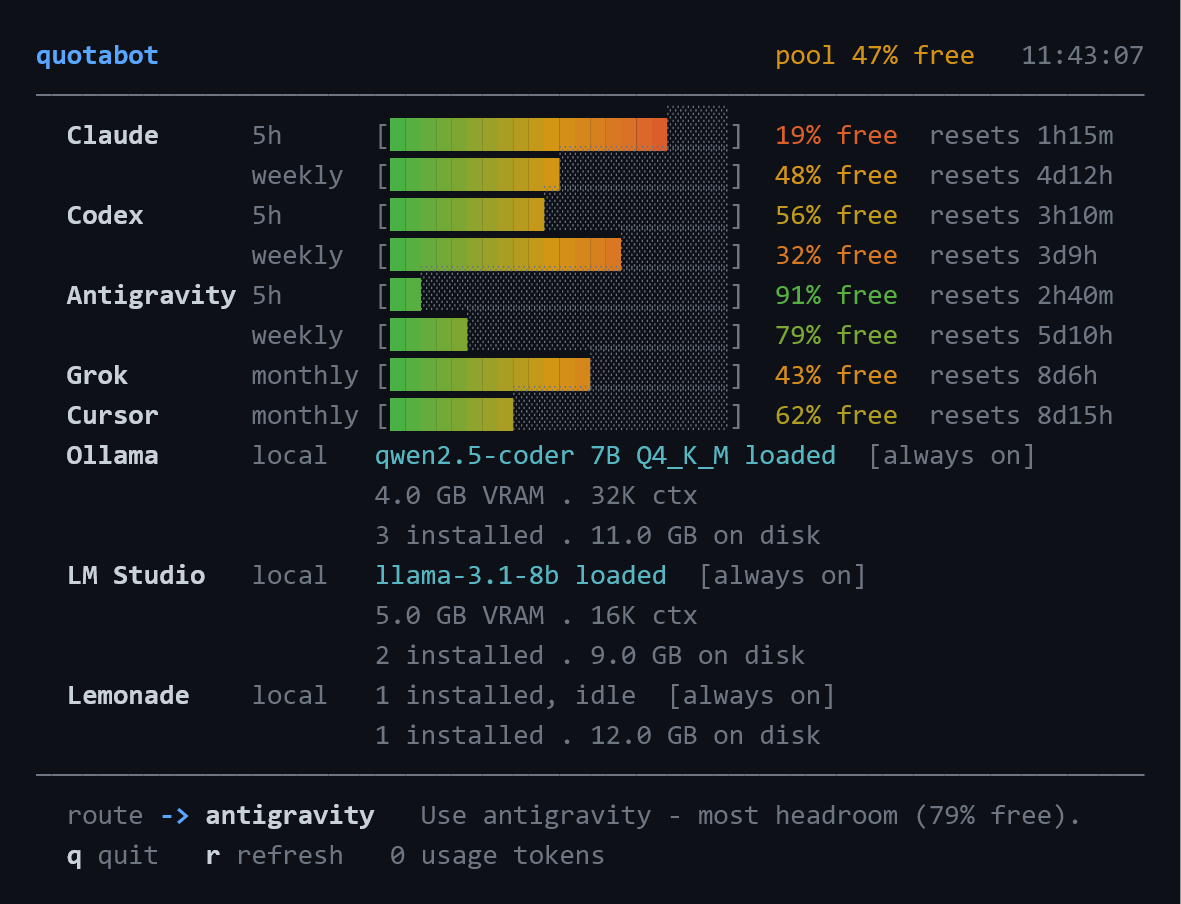
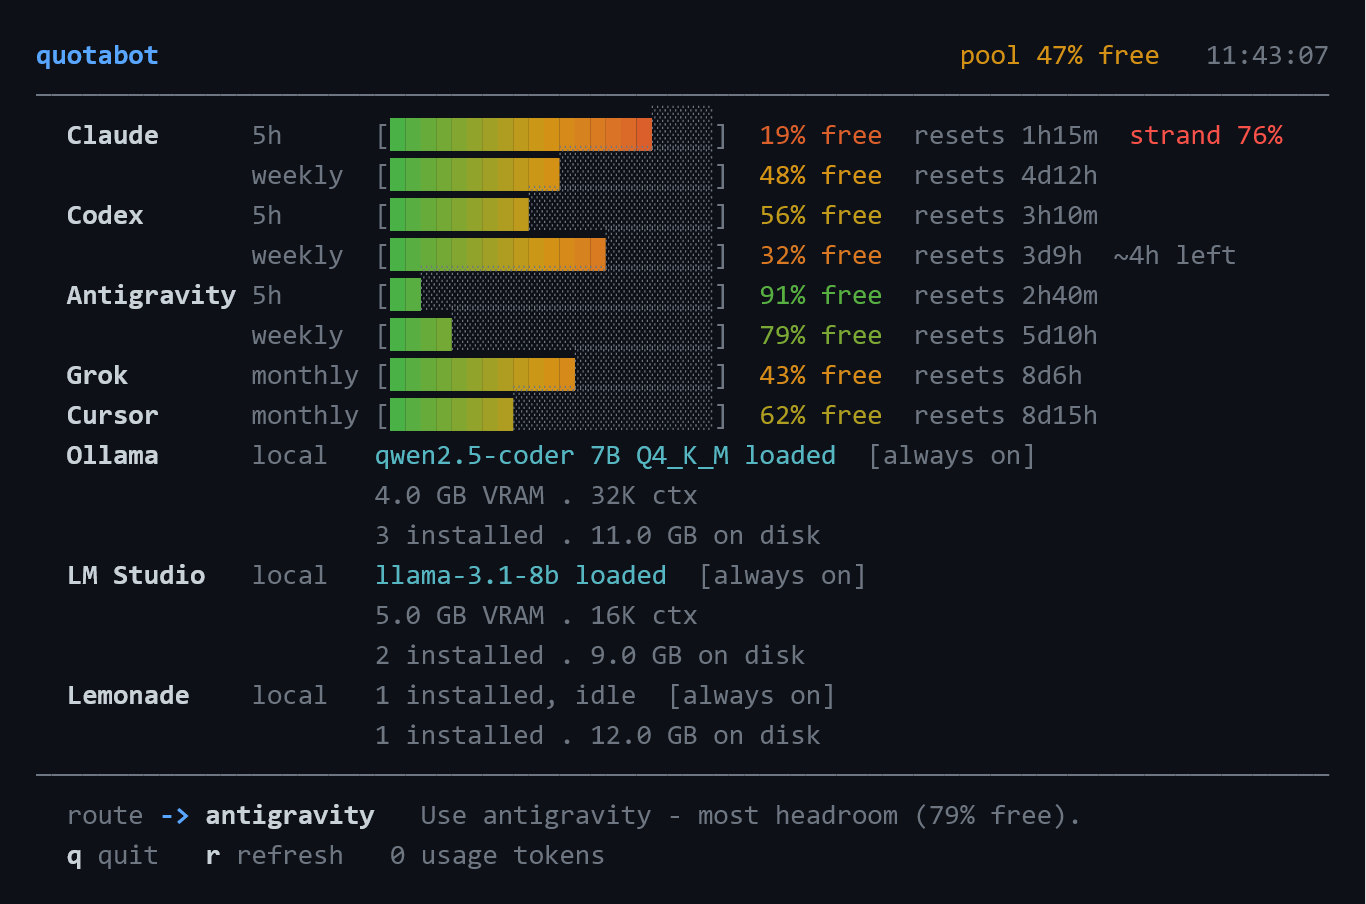
Surface the forward-looking forecast in quotabot top
Each provider's binding window now carries a forecast derived from its routing
candidate: a strand probability - the chance the window is spent before it
resets, from the same Gaussian first-passage model suggest uses - when recent
burn makes it material, otherwise a plain time-to-empty. The note is colored by
urgency and only appears when there is a real burn signal, so a steady fleet with
no history shows nothing invented. The meter column only yields width when a
forecast is present, so full-width bars are preserved otherwise.

The demo fleet gained synthetic burn stats so previews and the README screenshot
show the forecast (a likely strand on Claude, a time-to-empty on Codex) without
any real history; the top screenshot is regenerated at a wider frame so the
meters stay generous alongside the new column.

diff --git a/collector/lib/top.dart b/collector/lib/top.dart
@@ -61,11 +61,45 @@ const _labelW = 8;
 const _barMax = 40;
 
 /// The width of the bar for this frame, shared by every row so they align.
-int _barWidth(int width) {
+/// When [reserveForecast] is set a column is held back for the forward-looking
+/// note, so the meters shrink to make room only when there is a forecast to show
+/// (a fleet with no burn history keeps full-width bars).
+int _barWidth(int width, {bool reserveForecast = false}) {
   // indent(2) name label gaps(3) bar "100% free"(10) gap(2) reset(~13).
-  final overhead = 2 + _nameW + _labelW + 3 + 10 + 2 + 13;
+  final overhead =
+      2 + _nameW + _labelW + 3 + 10 + 2 + 13 + (reserveForecast ? 13 : 0);
   return (width - overhead).clamp(6, _barMax);
 }
+
+/// A compact forward-looking note for a provider's binding window, derived from
+/// its routing candidate: the strand probability (chance the window is spent
+/// before it resets) when that is material, otherwise a time-to-empty estimate
+/// when the provider is visibly burning. Null when there is no burn signal - no
+/// history yet, or headroom is steady - so quotabot never invents a forecast.
+/// [sev] grades urgency for color: 2 likely to strand, 1 watch, 0 informational.
+({String text, int sev})? _forecast(RouteCandidate? c) {
+  if (c == null) return null;
+  final sp = c.strandProbability;
+  if (sp != null && sp >= 0.15) {
+    return (text: 'strand ${(sp * 100).round()}%', sev: sp >= 0.5 ? 2 : 1);
+  }
+  final burn = c.burnPerHour, h = c.headroom;
+  if (burn != null && burn > 0.5 && h != null && h > 0) {
+    final hours = h / burn;
+    final text = hours >= 24
+        ? '~${(hours / 24).round()}d left'
+        : hours >= 1
+            ? '~${hours.round()}h left'
+            : '~${(hours * 60).round()}m left';
+    return (text: text, sev: 0);
+  }
+  return null;
+}
+
+/// Paints a forecast note by urgency: red when a strand is likely, orange when
+/// it bears watching, dim for a calm time-to-empty estimate.
+String _forecastPaint(AnsiStyle s, int sev, String t) =>
+    sev == 2 ? s.red(t) : (sev == 1 ? s.orange(t) : s.dim(t));
 
 /// Paints [t] in the palette's headroom color for [remaining] on a truecolor
 /// terminal, falling back to the standard named headroom color otherwise.
@@ -128,9 +162,8 @@ List<_Cell> _rowHead(String name, String label) => [
 /// collapse: when the most constrained window is spent, the whole provider
 /// collapses to a single "<label> spent" line instead of showing a misleading
 /// healthy shorter window.
-List<String> _providerRows(
-    ProviderQuota q, int now, int width, AnsiStyle s, Palette p) {
-  final barW = _barWidth(width);
+List<String> _providerRows(ProviderQuota q, int now, int width, AnsiStyle s,
+    Palette p, int barW, ({String text, int sev})? forecast) {
   final cachedTag = q.stale ? const _Cell(' (cached)') : const _Cell('');
 
   if (!q.ok) {
@@ -175,6 +208,7 @@ List<String> _providerRows(
     final used = rolled ? 0.0 : (w.percent ?? 0).clamp(0, 100).toDouble();
     final remaining = 100 - used;
     final reset = w.resetsAt == null ? '' : 'resets ${_eta(w.resetsAt!, now)}';
+    final showForecast = forecast != null && w.label == binding?.label;
     lines.add(_line([
       ..._rowHead(first ? q.displayName : '', w.label),
       ..._bar(used, remaining, barW, s, p),
@@ -183,6 +217,10 @@ List<String> _providerRows(
           (s, t) => _healthPaint(s, p, remaining, t)),
       _Cell('  '),
       _Cell(reset, (s, t) => s.dim(t)),
+      if (showForecast) ...[
+        const _Cell('  '),
+        _Cell(forecast.text, (s, t) => _forecastPaint(s, forecast.sev, t)),
+      ],
       if (first) _Cell(cachedTag.text, (s, t) => s.dim(t)),
     ], width, s));
     first = false;
@@ -272,8 +310,16 @@ List<String> renderTopFrame({
           (s, t) => s.dim(t)),
     ], w, s));
   }
+  // A forward-looking note per provider, from its routing candidate. The bar
+  // only yields width when at least one provider has a forecast to show.
+  final byProvider = {for (final c in suggestion.ranked) c.provider: c};
+  final forecasts = <String, ({String text, int sev})?>{
+    for (final q in cloud) q.provider: _forecast(byProvider[q.provider]),
+  };
+  final barW =
+      _barWidth(w, reserveForecast: forecasts.values.any((f) => f != null));
   for (final q in cloud) {
-    lines.addAll(_providerRows(q, now, w, s, p));
+    lines.addAll(_providerRows(q, now, w, s, p, barW, forecasts[q.provider]));
   }
   for (final q in local) {
     lines.addAll(_localRows(q, w, s));

diff --git a/collector/test/top_test.dart b/collector/test/top_test.dart
@@ -271,6 +271,63 @@ void main() {
     expect(lines.any((l) => _plain(l).contains('on disk')), isTrue);
   });
 
+  group('forward-looking forecast', () {
+    test('a burning provider shows a strand forecast on its binding window',
+        () {
+      final providers = [
+        _q('codex', [
+          QuotaWindow(label: '5h', usedPercent: 70, resetsAt: _now + 3600),
+        ]),
+      ];
+      // 30% free, burning 40%/hr (se 5) for an hour: a near-certain strand.
+      final suggestion = suggestRoute(providers, _now, burnStatsByProvider: {
+        'codex': const BurnStat(perHour: 40, sePerHour: 5, samples: 10),
+      });
+      final lines = renderTopFrame(
+        providers: providers,
+        suggestion: suggestion,
+        now: _now,
+        width: 100,
+        color: false,
+        clock: '12:00:00',
+      );
+      final row = lines.firstWhere((l) => _plain(l).contains('codex'));
+      expect(_plain(row), contains('strand'));
+    });
+
+    test('shows time-to-empty when burning but a strand cannot be computed',
+        () {
+      final providers = [
+        _q('codex', [QuotaWindow(label: '5h', usedPercent: 20)]), // 80% free
+      ];
+      // Burn but no standard error and no reset, so strand is null: fall back to
+      // a plain time-to-empty (80% / 10%/hr = ~8h).
+      final suggestion = suggestRoute(providers, _now, burnStatsByProvider: {
+        'codex': const BurnStat(perHour: 10, samples: 3),
+      });
+      final lines = renderTopFrame(
+        providers: providers,
+        suggestion: suggestion,
+        now: _now,
+        width: 100,
+        color: false,
+        clock: '12:00:00',
+      );
+      final row = lines.firstWhere((l) => _plain(l).contains('codex'));
+      expect(_plain(row), contains('left'));
+    });
+
+    test('no forecast is invented without burn history', () {
+      final lines = _frame([
+        _q('codex', [
+          QuotaWindow(label: '5h', usedPercent: 70, resetsAt: _now + 3600),
+        ]),
+      ], width: 100);
+      expect(lines.any((l) => _plain(l).contains('strand')), isFalse);
+      expect(lines.any((l) => _plain(l).contains('left')), isFalse);
+    });
+  });
+
   test('an empty fleet still renders a usable frame', () {
     final lines = _frame(const [], width: 60);
     expect(

diff --git a/collector/lib/demo.dart b/collector/lib/demo.dart
@@ -10,6 +10,19 @@ library;
 import 'adapters/ollama.dart';
 import 'models.dart';
 
+/// Synthetic recent-burn estimates for the demo fleet, so previews and the
+/// README screenshot show quotabot's forward-looking forecast - strand risk and
+/// time-to-empty - without any real history. Keyed by provider id; providers not
+/// listed simply show no forecast, the same as a fleet with steady headroom.
+Map<String, BurnStat> demoBurnStats() => const {
+      // Claude's tight 5h window is being drawn down fast: a likely strand
+      // before it resets, with enough samples to be confident about it.
+      'claude': BurnStat(perHour: 18, sePerHour: 4, samples: 12),
+      // Codex is burning steadily but with no error estimate yet, so quotabot
+      // shows a plain time-to-empty rather than a strand probability.
+      'codex': BurnStat(perHour: 8, samples: 4),
+    };
+
 /// A believable full fleet of made-up quota for demos: a few metered
 /// subscriptions at various headrooms and a few local runtimes.
 List<ProviderQuota> demoProviders(int now) {

diff --git a/app/lib/main.dart b/app/lib/main.dart
@@ -309,9 +309,12 @@ class _DashboardState extends State<Dashboard>
     final demo = cli_demo.demoProviders(now);
     return renderTopFrame(
       providers: demo,
-      suggestion: suggestRoute(demo, now),
+      suggestion: suggestRoute(demo, now,
+          burnStatsByProvider: cli_demo.demoBurnStats()),
       now: now,
-      width: 72,
+      // Wide enough that the meters stay generous with the forecast column held
+      // back, matching a typical 80-120 column terminal.
+      width: 84,
       color: true,
       clock: '11:43:07',
       depth: ColorDepth.truecolor,

diff --git a/collector/bin/collect.dart b/collector/bin/collect.dart
@@ -8,6 +8,7 @@ import 'package:quotabot_collector/auth/google_auth.dart';
 import 'package:quotabot_collector/auth/tokens.dart';
 import 'package:quotabot_collector/auth/xai_auth.dart';
 import 'package:quotabot_collector/collector.dart';
+import 'package:quotabot_collector/demo.dart' as demo;
 import 'package:quotabot_collector/top.dart';
 import 'package:quotabot_collector/util.dart';
 
@@ -151,8 +152,9 @@ RouteSuggestion _suggestFor(
     suggestRoute(
       results,
       now,
-      burnStatsByProvider:
-          recentBurnStatsByProvider(results.map((q) => q.provider), now),
+      burnStatsByProvider: Platform.environment['QUOTABOT_DEMO'] == '1'
+          ? demo.demoBurnStats()
+          : recentBurnStatsByProvider(results.map((q) => q.provider), now),
       riskZ: riskZ,
     );
 

diff --git a/CHANGELOG.md b/CHANGELOG.md
@@ -5,6 +5,13 @@ Notable changes to quotabot. Newest first.
 ## Unreleased
 
 ### Added
+- `quotabot top` surfaces the forward-looking forecast on each provider's binding
+  window: a strand probability (the chance the window is spent before it resets,
+  from the same first-passage model `suggest` uses) when burn history makes it
+  material, otherwise a plain time-to-empty. The note is colored by urgency and
+  only appears when there is a real burn signal - no history, no invented forecast.
+  The meter column yields width for it only when a forecast is present, so a steady
+  fleet keeps full-width bars.
 - `quotabot top` now refreshes on the same adaptive cadence as the desktop app:
   it polls fast when a window is near its cap or a reset is imminent (down to 30s),
   and relaxes to hours when the whole fleet is healthy and resets are far off. The

diff --git a/docs/USAGE.md b/docs/USAGE.md
@@ -84,8 +84,11 @@ Color follows the terminal (honors `NO_COLOR`, `CLICOLOR`, `--color/--no-color`)
 every provider, each colored on the headroom scale (green healthy, amber
 tightening, orange low, red spent) with a live reset countdown, your local
 runtimes as always-on fallbacks (with their VRAM, context, and disk detail), and
-a route line that names where to send the next request. It redraws in place on
-the alternate screen and repaints countdowns every second.
+a route line that names where to send the next request. When recent history shows
+a window being drawn down, the binding window also carries a forward-looking note:
+a strand probability (the chance it is spent before it resets) when that is
+material, otherwise a time-to-empty estimate. It redraws in place on the alternate
+screen and repaints countdowns every second.
 
 ```bash
 quotabot top                # adaptive refresh (the default)

diff --git a/ROADMAP.md b/ROADMAP.md
@@ -74,7 +74,7 @@ Routing and MCP
   strand probability, confidence, `--risk`)
 - [x] MCP 2025-11-25 output schemas and read-only annotations
 - [x] per-model registry (`quotabot models`, `list_models`, capability + tier filters)
-- [ ] `suggest` recommends a concrete model for a task profile (cheapest qualifying
+- [x] `suggest` recommends a concrete model for a task profile (cheapest qualifying
   with budget, escalate on strand)
 - [ ] forward-looking prediction surfaced plainly in `top`, the widget, and alerts
 - [ ] MCP Streamable HTTP transport alongside stdio, plus Python/TS client snippets